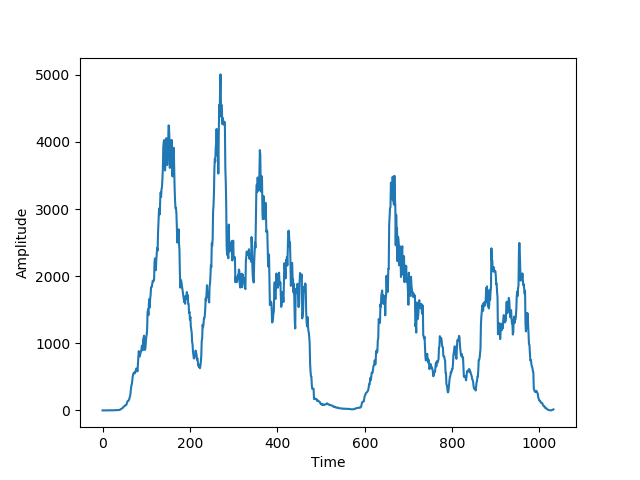
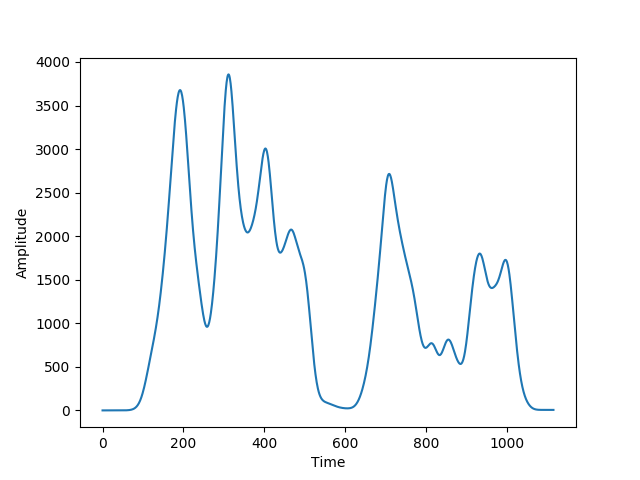
mgggl

diff --git a/analysis/analysis.py b/analysis/analysis.py
@@ -22,6 +22,8 @@ for file_name in file_list:
         sample_rate, data = read(file_name) # assuming sample rates are the same
         sounds.append(data)
 
+current_loudest = 0
+
 for (index, sound) in enumerate(sounds):
     try:
         sound = sounds[:,0] + sounds[:,1]
@@ -29,7 +31,7 @@ for (index, sound) in enumerate(sounds):
         pass
 
     sound = sound[::len(sound)//frame_total]
-    current_loudest = 0
+
 
     for i in range(len(sound)):
         volume = sound[i][0] # ASSUMES A STEREO SOUND FILE --> Remove [0] for mono files
@@ -45,7 +47,7 @@ threshold = current_loudest/3
 
 #Finds events for a single module. Takes in 3 event arrays - one from each microphone and a minimum volume threshold for defining events
 #Returns an array of (start index, duration) of sound events with start and duration measured in indices of the sound array
-def find_module_events(e1, e2, e3): 
+def find_module_events(e1, e2, e3):
     #Don't let a sound event endure for too long - set a max
 
 
@@ -93,7 +95,7 @@ def chonk_avg(arr, chunk_size):
     return chonks
 
 #Takes in a 1D array and plots y = val, x = index. PlotID determines the order in which the plots are displayed.
-#Plot ID is mANDATORY to display properly. Set each plot ID as one greater than the previous. 
+#Plot ID is mANDATORY to display properly. Set each plot ID as one greater than the previous.
 def drawPlot(channel, plotId):
     plot = plt.figure(plotId)
     plt.plot(range(len(channel)), channel)
@@ -103,10 +105,10 @@ def drawPlot(channel, plotId):
     return plot
 
 
-g = drawPlot(channel1, 0)
-f = drawPlot(chonk_avg(channel1, 20), 1)
-x = drawPlot(smooth(channel1), 2)
+# g = drawPlot(channel1, 0)
+# f = drawPlot(chonk_avg(channel1, 20), 1) 
+f = drawPlot(smooth(channel1), 1)
+x = drawPlot(smooth(smooth(smooth(smooth(smooth(smooth(smooth(channel1))))))), 2)
 plt.show()
 
 # plt.plot(range(frame_total/chunk_size + 1), channel1)
-
